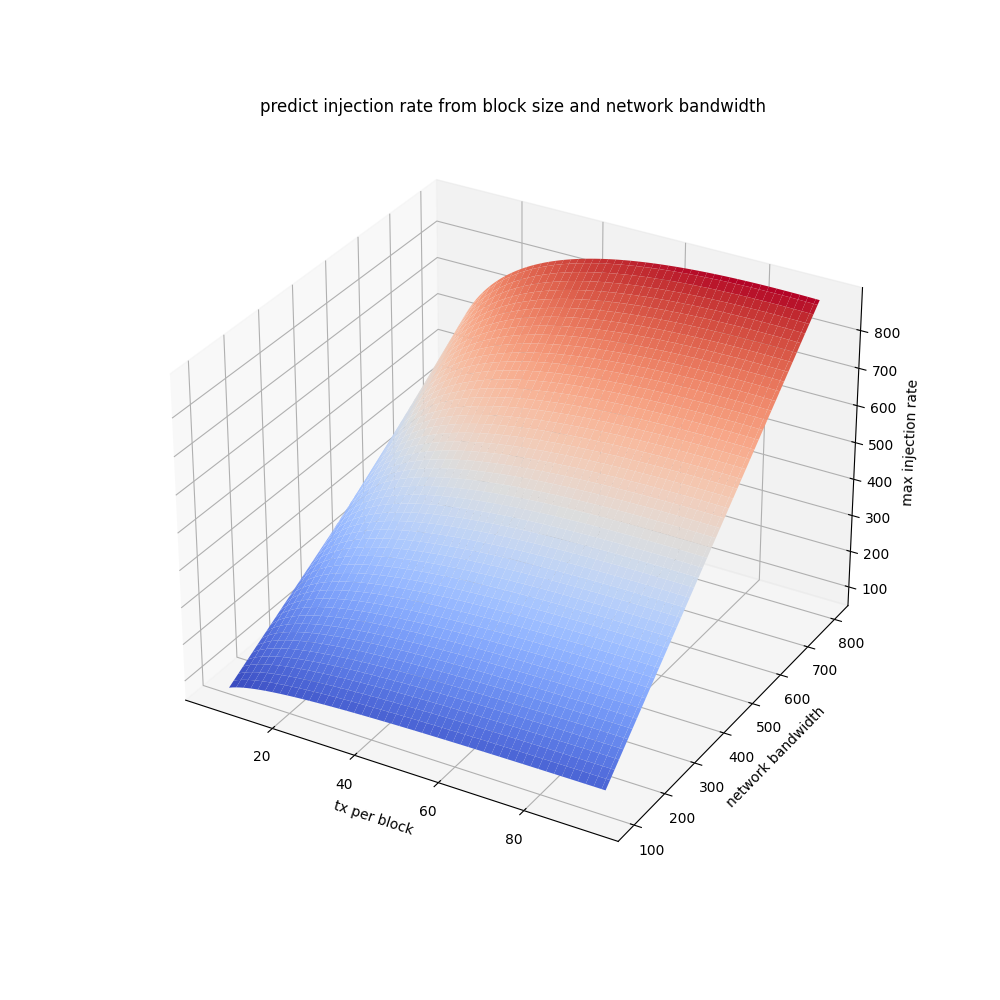
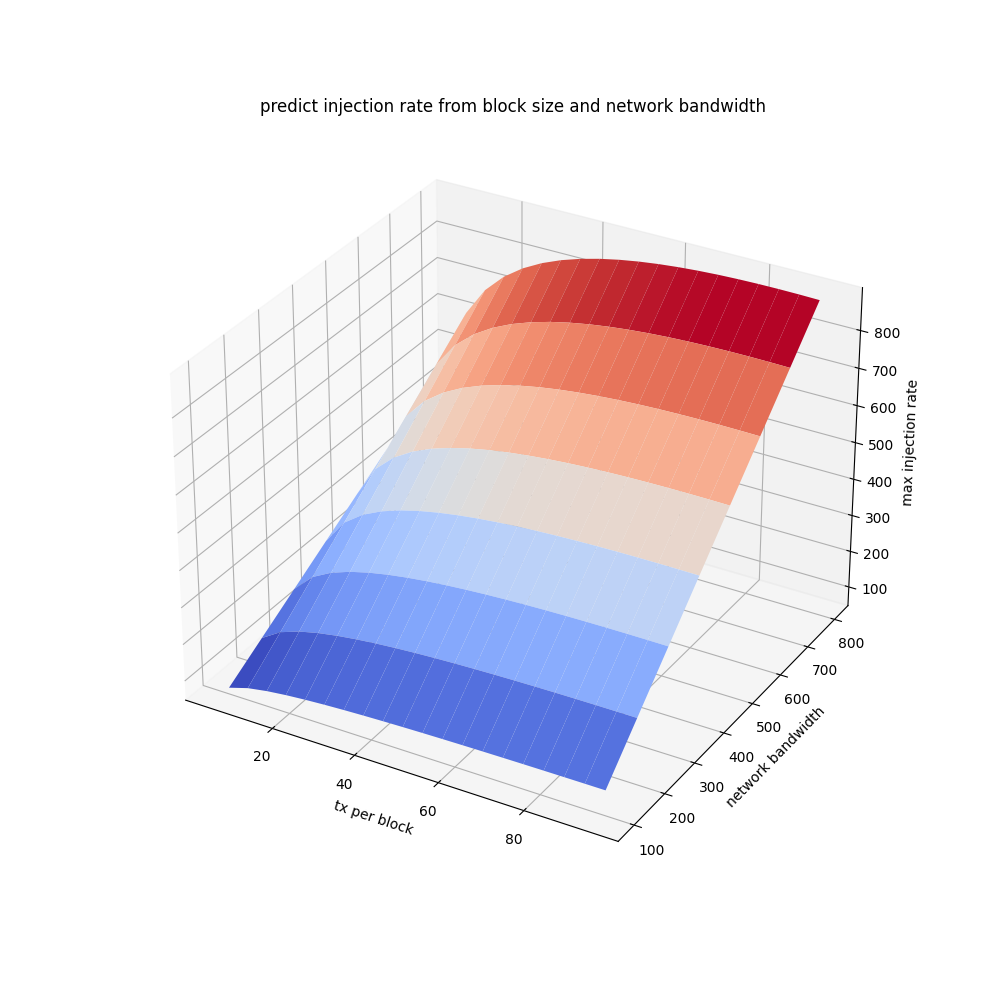
create plot2D, calculate blocktime,bisection solve eq

diff --git a/plot_3D.py b/plot_3D.py
@@ -1,13 +1,80 @@
 import numpy as np
 import matplotlib.pyplot as plt
 from mpl_toolkits.mplot3d import Axes3D
+import pandas as pd
+from sklearn.metrics import r2_score
+import sys
+
+
+
+mode = 1 # 1 for failrate, 2 for avg_block_time
+#handle console arguments
+if len(sys.argv) >= 2:
+    mode = int(sys.argv[1])
+
+filename = ''
+result_y = ''
+
+if mode == 1:
+    filename = '3D_max_injection_rate.xlsx'
+    result_y = 'max injection rate(per sec)'
+elif mode == 2:
+    filename = '3D_avg_block_time.xlsx'
+    result_y = 'avg block time(ms)'
+
+
+
 
 # Define the function to plot
 def func(x1, x2):
+    if mode == 1:
+        return func1(x1, x2)
+    elif mode == 2:
+        return func2(x1, x2)
+
+def func1(x1, x2):
     return (0.1594*x2 + 8.699) + (0.2787*x2 - 2.352) * np.log(x1) + (-0.003334*x2 + 0.06600) * x1
 
+def func2(x1, x2): # for avg_block_time
+    return (413.2 * pow(x2, -0.96)) * x1 + 4687.7 * pow(x2, -1.002)
+
+# Load the Excel file into a pandas dataframe
+df = pd.read_excel(filename, index_col=0)
+# print(df)
+
+# Get the values of x1 and x2 from the dataframe
+ox1 = df.index.values.astype(float)
+ox2 = df.columns.values.astype(float)
+
+# Create a 2D grid of x1 and x2 values
+oX1, oX2 = np.meshgrid(ox1, ox2)
+
+# print(ox1)
+# print(ox2)
+# print(oX1)
+# print(oX2)
+
+# Calculate the predicted values for each point in the grid
+Y_pred = func(oX1, oX2)
+
+# Switch the rows and columns of Y_pred
+Y_pred = Y_pred.transpose()
+
+# Flatten the dataframe and the predicted values into 1D arrays
+Y_true = df.values.flatten()
+Y_pred = Y_pred.flatten()
+# print(Y_true)
+# print(Y_pred)
+# Calculate the R-squared score
+r2 = r2_score(Y_true, Y_pred)
+
+# Print the R-squared score
+print('R-squared score:', r2)
+
 # Generate the values for x1 and x2
+# x1 = np.linspace(5, 95, 20)
 x1 = np.linspace(5, 95, 100)
+# x2 = np.linspace(100, 800, 8)
 x2 = np.linspace(100, 800, 100)
 
 # Create a 2D grid of x1 and x2 values
@@ -24,9 +91,12 @@ ax = fig.add_subplot(111, projection='3d')
 surf = ax.plot_surface(X1, X2, Y, cmap='coolwarm')
 ax.set_xlabel('tx per block')
 ax.set_ylabel('network bandwidth')
-ax.set_zlabel('max injection rate')
-plt.title("predict injection rate from block size and network bandwidth")
+ax.set_zlabel(result_y)
+if mode == 1:
+    plt.title("predict injection rate from block size and network bandwidth")
+elif mode == 2:
+    plt.title("predict average block time from block size and network bandwidth")
 
-plt.savefig('3D_fitting.png')
+plt.savefig(result_y+'_fitting.png')
 
 print("plot successfully generated")

diff --git a/plot_2D_single.py b/plot_2D_single.py
@@ -1,0 +1,52 @@
+import numpy as np
+import matplotlib.pyplot as plt
+
+def plot_function():
+# Define the functions to plot
+    def x2(x1):
+        return (8.699 - 2.352 * np.log(x1) + 0.066 * x1 - 129.032)/ -(0.1594 + 0.2787 * np.log(x1) -0.003334 * x1)
+
+    def f(x1):
+        return (100 - 4687.7 * pow(x2(x1), -1.002))/(413.2 * pow(x2(x1), -0.96)) - x1
+
+    # Generate x values from -2*pi to 2*pi
+    x1 = np.linspace(1, 99, 1000)
+
+
+    # Generate y values for the two functions
+    y = f(x1)
+
+
+    # Create the plot
+    fig, ax = plt.subplots()
+    fig.set_figwidth(15)
+    fig.set_figheight(10)
+    # Plot the first function and fill upper area with red color
+    ax.plot(x1, y, 'r-', linewidth=2)
+    # ax.fill_between(x1, y, 800, where=(y_x2 >= 0), interpolate=True, color='red', alpha=0.3)
+
+    # Plot the second function and fill upper area with blue color
+    # ax.plot(y_x1, x2, 'b-', linewidth=2, label='block time constraint')
+    # ax.fill_between(y_x1, x2, 800, where=(y_x1 >= 0), interpolate=True, color='blue', alpha=0.3)
+
+    # Fill the area where the two functions overlap with green color
+    # ax.fill_between(x, np.minimum(y1, y2), 1, where=(y1 >= 0) & (y2 >= 0), interpolate=True, color='green', alpha=0.3)
+
+
+    # Enable horizontal grid lines
+    ax.grid(axis='y', linestyle='--', alpha=0.5)
+
+    # Set labels and title
+    ax.set_xlabel('transaction per block')
+    ax.set_ylabel('network bandwidth')
+    ax.set_title('tpb vs bandwidth under block time and injection rate constraints')
+    
+    # Add legend
+    # ax.legend()
+    
+    # Display the plot
+    # plt.show()
+    plt.savefig('function_plot.png')
+    
+# Call the function to plot the function and fill the upper area
+plot_function()

diff --git a/plot_2D_compare.py b/plot_2D_compare.py
@@ -1,0 +1,48 @@
+import numpy as np
+import matplotlib.pyplot as plt
+
+def plot_function():
+# Define the functions to plot
+    def f1(x1):
+        return (8.699 - 2.352 * np.log(x1) + 0.066 * x1 - 129.032)/ -(0.1594 + 0.2787 * np.log(x1) -0.003334 * x1)
+
+    def f2(x2):
+        return (100 - 4687.7 * pow(x2, -1.002))/(413.2 * pow(x2, -0.96))
+
+    # Generate x values from -2*pi to 2*pi
+    x1 = np.linspace(1, 99, 1000)
+    x2 = np.linspace(10, 800, 1000)
+
+    # Generate y values for the two functions
+    y_x2 = f1(x1)
+    y_x1 = f2(x2)
+
+    # Create the plot
+    fig, ax = plt.subplots()
+    fig.set_figwidth(15)
+    fig.set_figheight(10)
+    # Plot the first function and fill upper area with red color
+    ax.plot(x1, y_x2, 'r-', linewidth=2, label='injection rate constraint')
+    ax.fill_between(x1, y_x2, 800, where=(y_x2 >= 0), interpolate=True, color='red', alpha=0.3)
+
+    # Plot the second function and fill upper area with blue color
+    ax.plot(y_x1, x2, 'b-', linewidth=2, label='block time constraint')
+    ax.fill_between(y_x1, x2, 800, where=(y_x1 >= 0), interpolate=True, color='blue', alpha=0.3)
+
+    # Fill the area where the two functions overlap with green color
+    # ax.fill_between(x, np.minimum(y1, y2), 1, where=(y1 >= 0) & (y2 >= 0), interpolate=True, color='green', alpha=0.3)
+
+    # Set labels and title
+    ax.set_xlabel('transaction per block')
+    ax.set_ylabel('network bandwidth')
+    ax.set_title('tpb vs bandwidth under block time and injection rate constraints')
+    
+    # Add legend
+    ax.legend()
+    
+    # Display the plot
+    # plt.show()
+    plt.savefig('function_compare_plot.png')
+    
+# Call the function to plot the function and fill the upper area
+plot_function()

diff --git a/bisection_solve_eq.py b/bisection_solve_eq.py
@@ -1,0 +1,32 @@
+import numpy as np
+
+
+def x2(x1):
+    return (8.699 - 2.352 * np.log(x1) + 0.066 * x1 - 129.032)/ -(0.1594 + 0.2787 * np.log(x1) -0.003334 * x1)
+
+def f(x1):
+    return (100 - 4687.7 * pow(x2(x1), -1.002))/(413.2 * pow(x2(x1), -0.96)) - x1
+
+def bisection_method():
+    a = 15  # min guess for x1 
+    b = 20  # max guess for x1
+    tolerance = 1e-6  # Desired tolerance for convergence
+    max_iterations = 1000  # Maximum number of iterations
+
+    iteration = 0
+    while abs(b - a) > tolerance and iteration < max_iterations:
+        c = (a + b) / 2
+
+        if f(a) * f(c) < 0:
+            b = c
+        elif f(b) * f(c) < 0:
+            a = c
+        else:
+            break
+
+        iteration += 1
+    print("Iterations:", iteration)
+    return c, x2(c)
+
+result = bisection_method()
+print("Solution: x1 =", result[0], "x2 =", result[1])

diff --git a/calculate_blocktime.py b/calculate_blocktime.py
@@ -1,0 +1,15 @@
+import pandas as pd
+import matplotlib.pyplot as plt
+from scipy.optimize import curve_fit
+import sys
+import numpy
+import math
+import matplotlib
+from sklearn.metrics import r2_score
+
+
+# Define the logarithmic function to fit to the data
+def log_func(x, a, b, c):
+    # return a + b * numpy.log(d * x) + c * x
+    return a + b * numpy.log(x) + c * x
+
